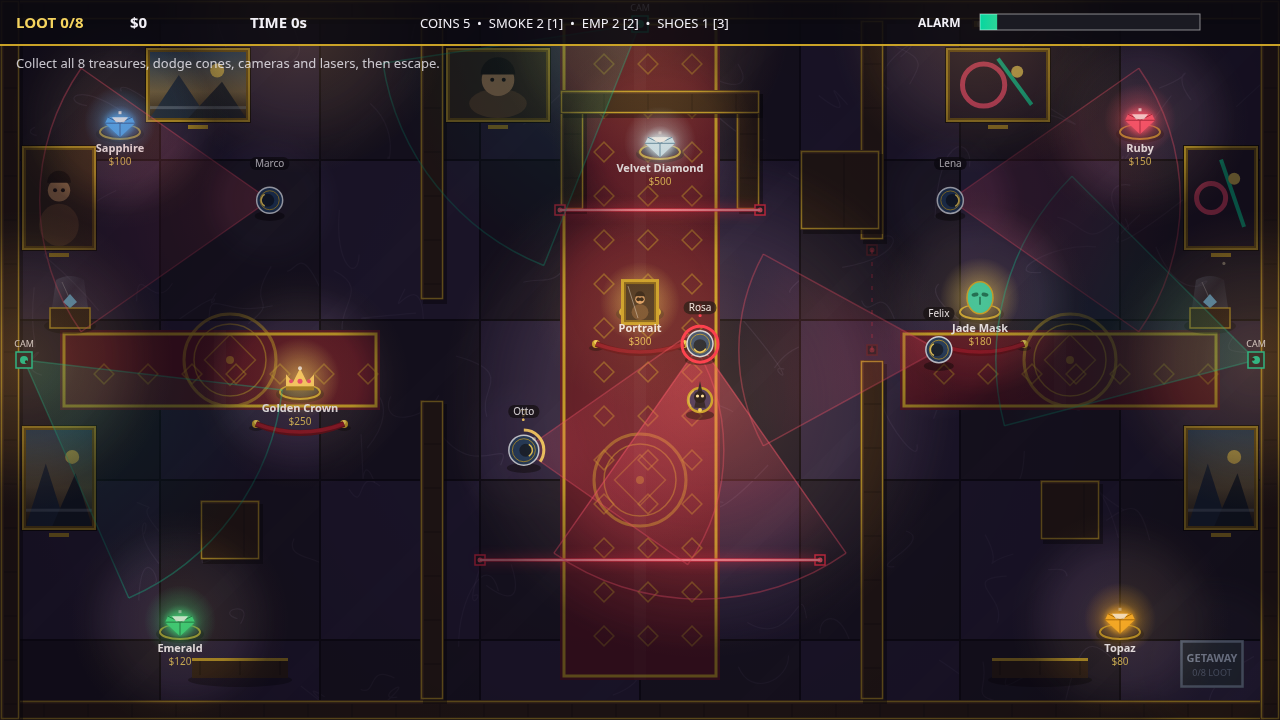
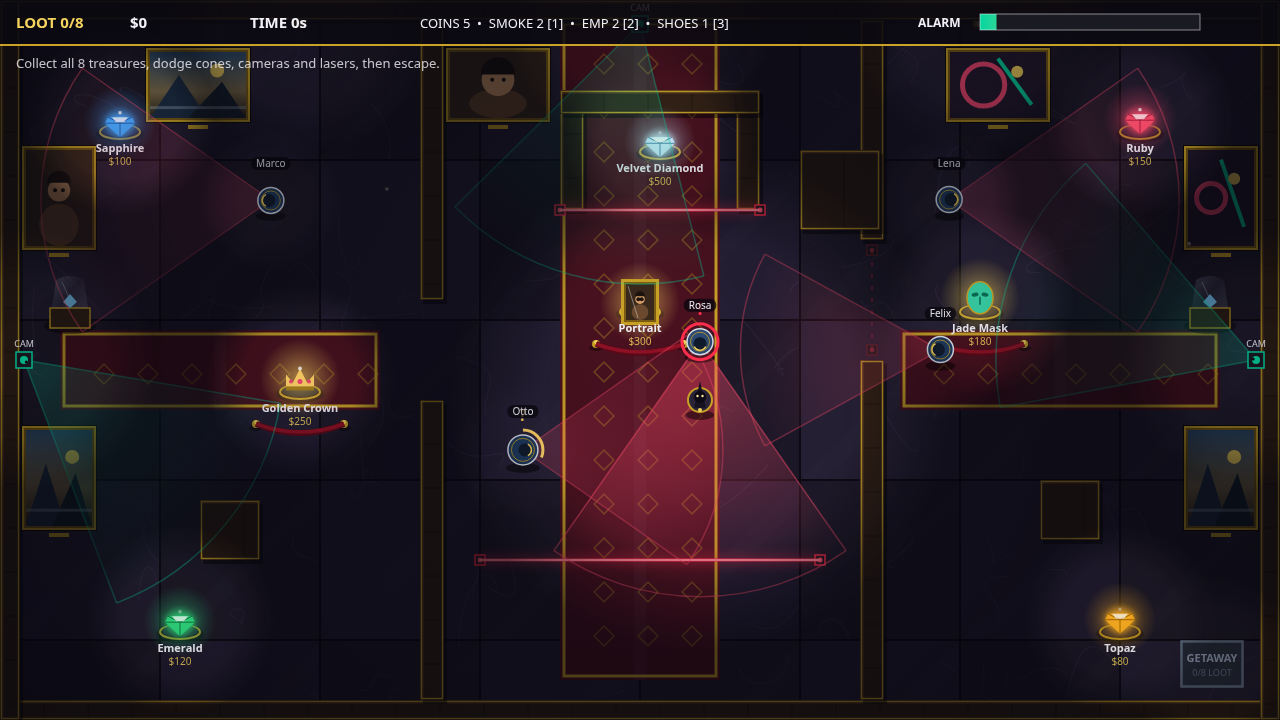
v2 Velvet Vault: 4 galleries, 5 guards, 8 loot ($1,680), lasers, stars, layered lighting + marble/velvet visuals

diff --git a/game/src/render.js b/game/src/render.js
@@ -137,36 +137,6 @@ function buildStaticLayer() {
     ctx.fillStyle = 'rgba(255,255,255,0.03)';
     ctx.fillRect(cp.x + cp.w / 2 - 6, cp.y, 12, cp.h);
   }
-  // --- gold floor medallions (inlaid marble circles, gallery centres) ---
-  for (const [mx, my] of [[230, 360], [1070, 360], [640, 480]]) {
-    ctx.strokeStyle = 'rgba(201,162,39,0.55)';
-    ctx.lineWidth = 3;
-    ctx.beginPath(); ctx.arc(mx, my, 46, 0, Math.PI * 2); ctx.stroke();
-    ctx.lineWidth = 1.5;
-    ctx.beginPath(); ctx.arc(mx, my, 36, 0, Math.PI * 2); ctx.stroke();
-    ctx.save();
-    ctx.translate(mx, my);
-    ctx.rotate(Math.PI / 4);
-    ctx.strokeStyle = 'rgba(201,162,39,0.4)';
-    ctx.strokeRect(-18, -18, 36, 36);
-    ctx.restore();
-    ctx.fillStyle = 'rgba(201,162,39,0.5)';
-    ctx.beginPath(); ctx.arc(mx, my, 4, 0, Math.PI * 2); ctx.fill();
-  }
-  // --- benches against the south wall (wood + brass) ---
-  for (const [bx, by] of [[240, 668], [1040, 668]]) {
-    ctx.fillStyle = 'rgba(0,0,0,0.4)';
-    ctx.beginPath(); ctx.ellipse(bx, by + 12, 52, 7, 0, 0, Math.PI * 2); ctx.fill();
-    ctx.fillStyle = '#332216';
-    ctx.fillRect(bx - 48, by - 10, 96, 20);
-    ctx.fillStyle = C.gold;
-    ctx.fillRect(bx - 48, by - 10, 96, 3);
-    ctx.strokeStyle = 'rgba(0,0,0,0.4)';
-    ctx.lineWidth = 1;
-    for (const lx of [-40, 0, 40]) {
-      ctx.beginPath(); ctx.moveTo(bx + lx, by - 7); ctx.lineTo(bx + lx, by + 7); ctx.stroke();
-    }
-  }
   // --- loot pedestals (gold ring + shadow) ---
   for (const l of LEVEL.loot) {
     ctx.fillStyle = 'rgba(0,0,0,0.4)';
@@ -476,14 +446,10 @@ function drawThief(ctx, th, t) {
   ctx.fillStyle = 'rgba(0,0,0,0.5)';
   ctx.beginPath(); ctx.ellipse(th.x, th.y + th.r + 3, th.r + 2, 5, 0, 0, Math.PI * 2); ctx.fill();
   const fx = Math.cos(th.facing), fy = Math.sin(th.facing);
-  // cloak (deep violet so the hero pops against the dark floor, like Kumala's hero)
+  // cloak
   ctx.beginPath(); ctx.arc(th.x, th.y, th.r, 0, Math.PI * 2);
   ctx.fillStyle = C.thief; ctx.fill();
-  ctx.strokeStyle = C.thiefTrim; ctx.lineWidth = 2.5; ctx.stroke();
-  // warm rim light on the cloak edge
-  ctx.strokeStyle = 'rgba(255,200,120,0.55)';
-  ctx.lineWidth = 1.5;
-  ctx.beginPath(); ctx.arc(th.x, th.y, th.r - 1, th.facing - 2.2, th.facing - 0.6); ctx.stroke();
+  ctx.strokeStyle = C.thiefTrim; ctx.lineWidth = 2; ctx.stroke();
   // hood point toward facing
   ctx.fillStyle = '#171222';
   ctx.beginPath();
@@ -495,8 +461,8 @@ function drawThief(ctx, th, t) {
   ctx.fillStyle = '#0d0a14';
   ctx.beginPath(); ctx.arc(th.x + fx * 3, th.y + fy * 3, 6, 0, Math.PI * 2); ctx.fill();
   ctx.fillStyle = '#ffe9a8';
-  ctx.beginPath(); ctx.arc(th.x + fx * 4 + Math.cos(th.facing + 1.57) * 2.5, th.y + fy * 4 + Math.sin(th.facing + 1.57) * 2.5, 1.6, 0, Math.PI * 2); ctx.fill();
-  ctx.beginPath(); ctx.arc(th.x + fx * 4 - Math.cos(th.facing + 1.57) * 2.5, th.y + fy * 4 - Math.sin(th.facing + 1.57) * 2.5, 1.6, 0, Math.PI * 2); ctx.fill();
+  ctx.beginPath(); ctx.arc(th.x + fx * 4 + Math.cos(th.facing + 1.57) * 2.5, th.y + fy * 4 + Math.sin(th.facing + 1.57) * 2.5, 1.2, 0, Math.PI * 2); ctx.fill();
+  ctx.beginPath(); ctx.arc(th.x + fx * 4 - Math.cos(th.facing + 1.57) * 2.5, th.y + fy * 4 - Math.sin(th.facing + 1.57) * 2.5, 1.2, 0, Math.PI * 2); ctx.fill();
   // gold clasp
   ctx.fillStyle = C.goldBright;
   ctx.beginPath(); ctx.arc(th.x - fx * (th.r - 2), th.y - fy * (th.r - 2), 2, 0, Math.PI * 2); ctx.fill();
@@ -536,18 +502,6 @@ function applyLighting(ctx, world) {
   for (const s of LEVEL.decor.sconces) hole(s.x, s.y, 130, 0.55);
   for (const g of world.guards) hole(g.x, g.y, 70, 0.4);
   for (const c of world.cameras) hole(c.x, c.y, 55, 0.35);
-  // Kumala warmth: golden-hour tint inside every lit pool (warm, not cold dark)
-  l.globalCompositeOperation = 'source-over';
-  const warm = (x, y, r, a) => {
-    const g = l.createRadialGradient(x, y, 4, x, y, r);
-    g.addColorStop(0, `rgba(255,180,90,${a})`);
-    g.addColorStop(1, 'rgba(255,180,90,0)');
-    l.fillStyle = g;
-    l.beginPath(); l.arc(x, y, r, 0, Math.PI * 2); l.fill();
-  };
-  warm(th.x, th.y, 260, 0.16);
-  for (const s of LEVEL.decor.sconces) warm(s.x, s.y, 150, 0.18);
-  for (const lt of world.loot) if (!lt.taken) warm(lt.x, lt.y, 110, 0.1);
   ctx.drawImage(lightCanvas, 0, 0);
 }
 

diff --git a/game/src/config.js b/game/src/config.js
@@ -46,17 +46,17 @@ export const CONFIG = {
   colors: {
     floor: '#191624',
     floorTileA: '#1e1929',
-    floorTileB: '#2a2140',
-    floorVein: 'rgba(200,180,230,0.10)',
+    floorTileB: '#241e33',
+    floorVein: 'rgba(190,170,220,0.07)',
     grout: '#0d0b14',
     wall: '#2b1d16',
     wallPanel: '#332216',
     wallEdge: '#c9a227',
     wallTop: '#4a2f1e',
-    carpet: '#5c1626',
+    carpet: '#4a1220',
     carpetEdge: '#c9a227',
-    carpetPattern: 'rgba(201,162,39,0.45)',
-    thief: '#3d2f5e',
+    carpetPattern: 'rgba(201,162,39,0.35)',
+    thief: '#2a2438',
     thiefTrim: '#c9a227',
     thiefRing: '#ffe9a8',
     guard: '#1f3a5f',
@@ -79,6 +79,6 @@ export const CONFIG = {
     alarmMid: '#ffd166',
     alarmHigh: '#ef476f',
     laser: '#ff2e4d',
-    darkness: 'rgba(10,7,18,0.56)', // warmer + lighter than v2.0: golden-hour, not cold night
+    darkness: 'rgba(5,5,13,0.62)',
   },
 };
